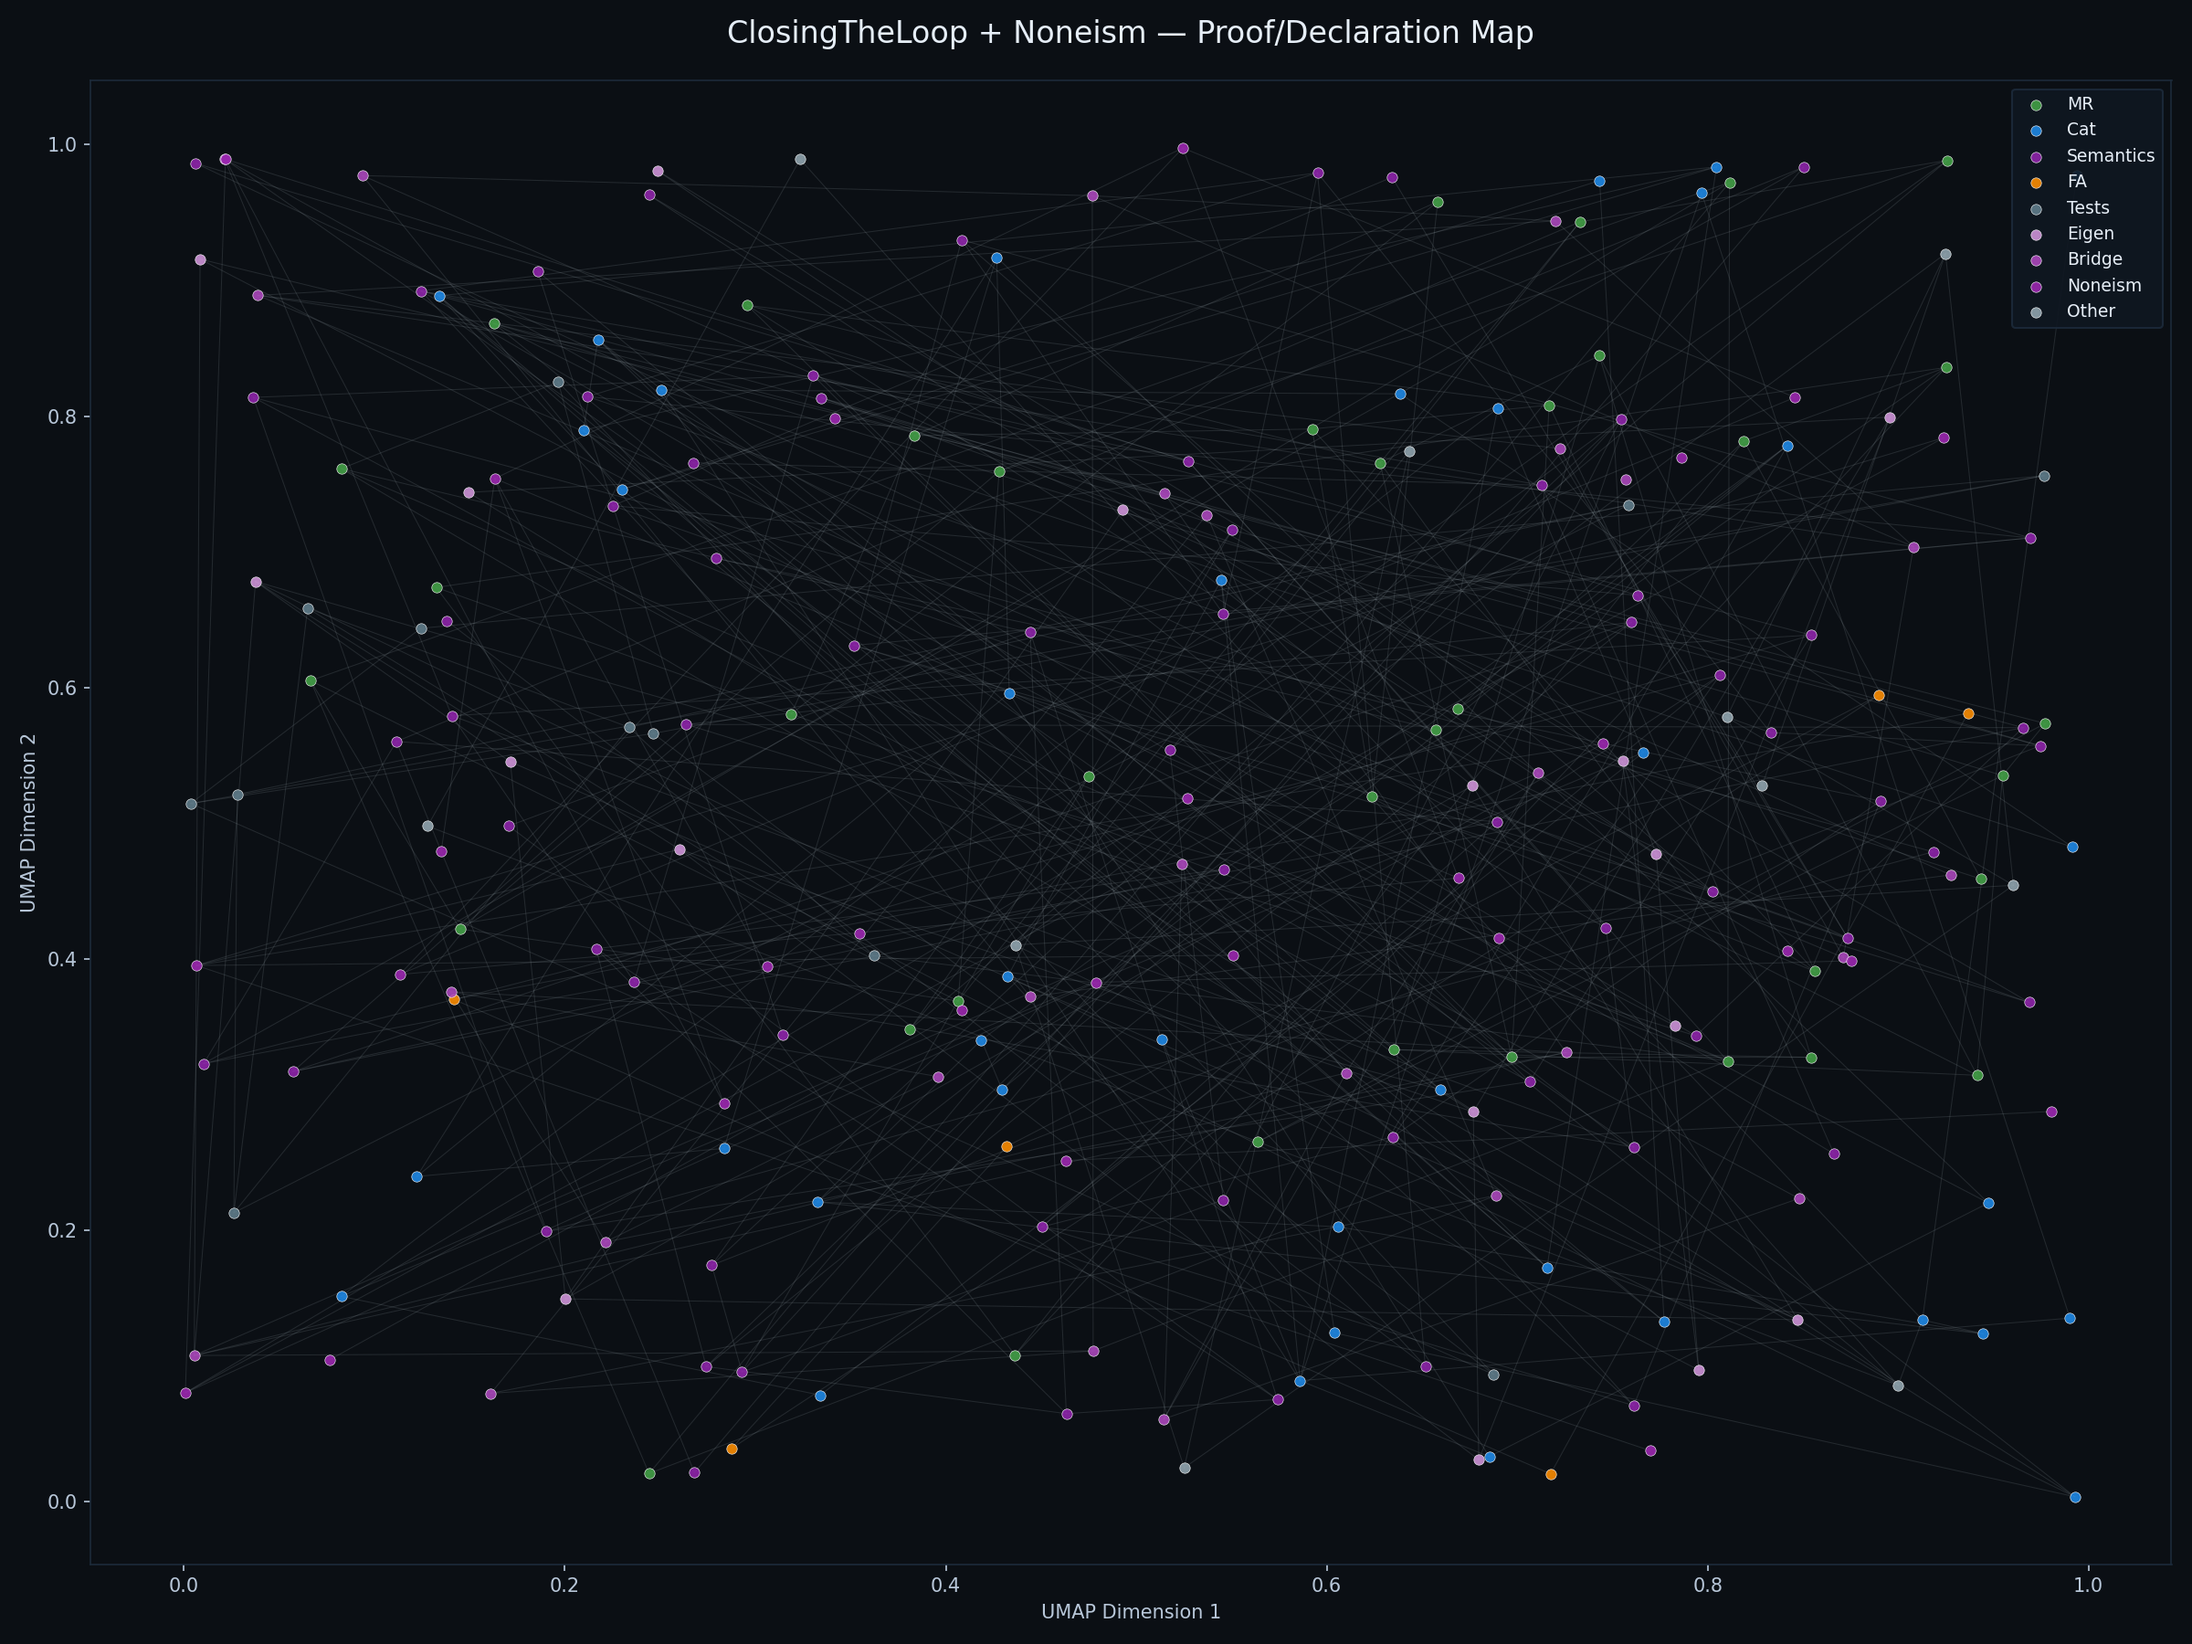
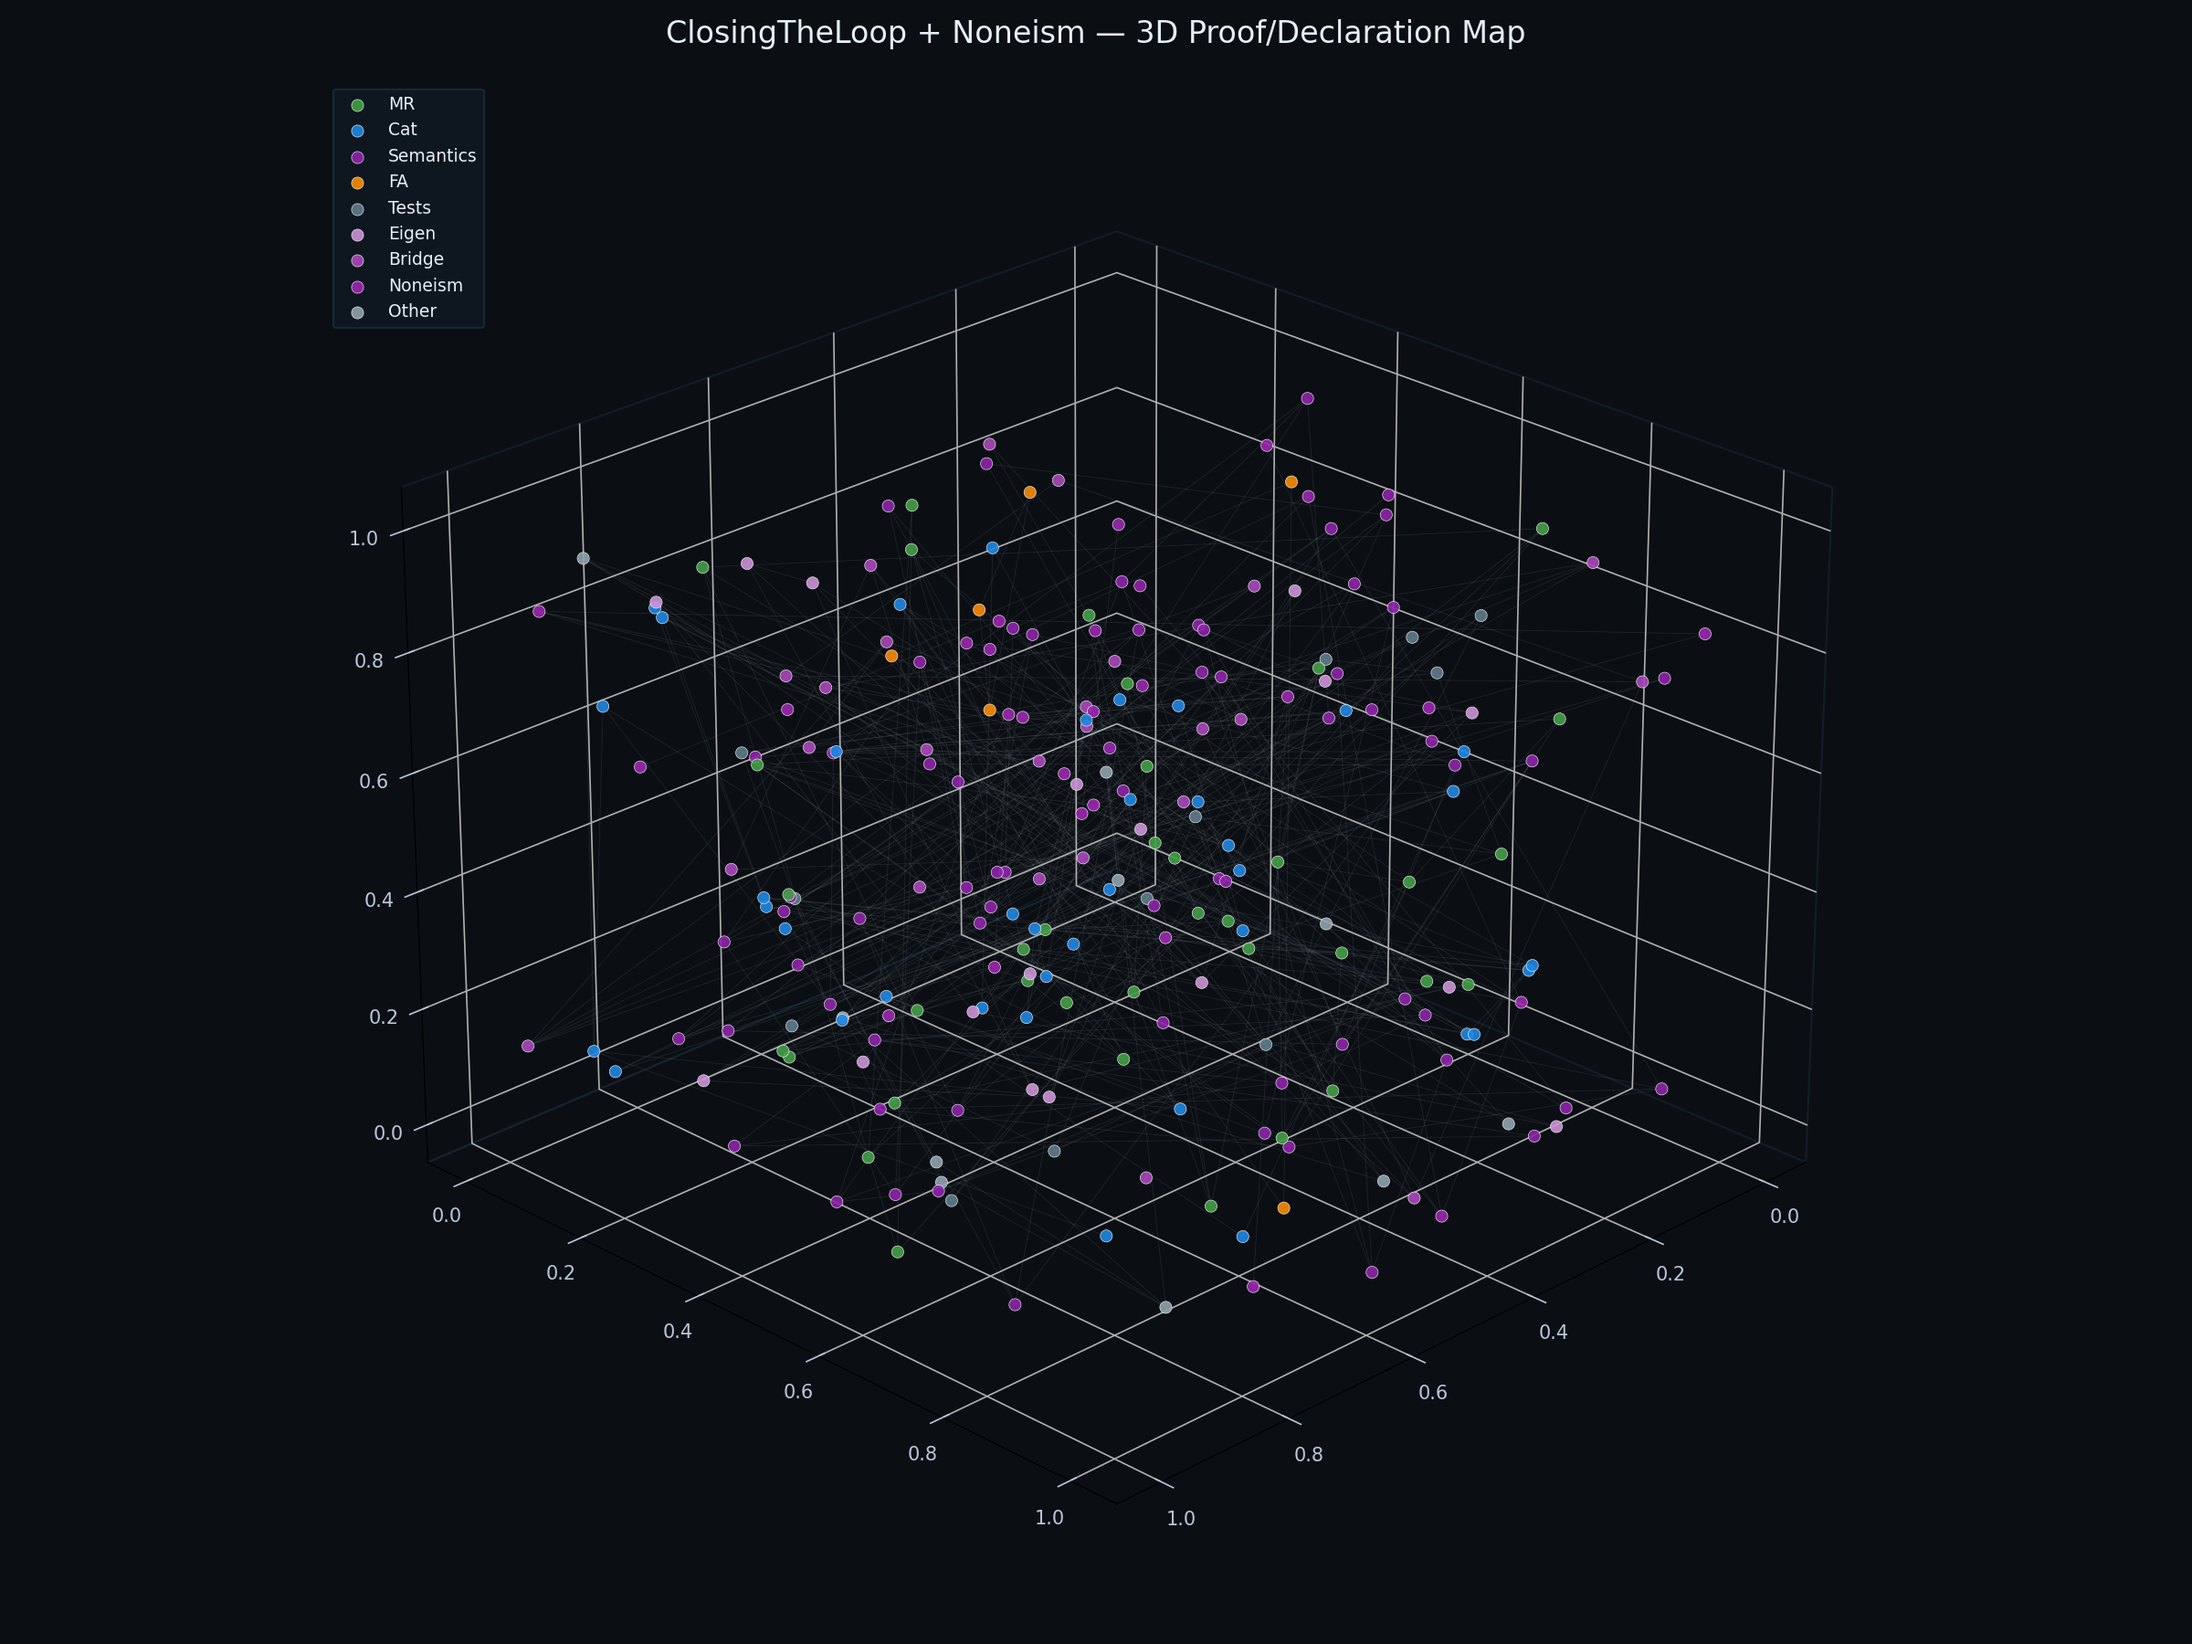
Switch README to 3D proof graph visualization

diff --git a/RESEARCHER_BUNDLE/scripts/regenerate_visuals.py b/RESEARCHER_BUNDLE/scripts/regenerate_visuals.py
@@ -301,13 +301,12 @@ def generate_edges(items: list, module_edges: dict) -> list:
     return edges
 
 def generate_static_png(items: list, edges: list, output_path: Path):
-    """Generate a static PNG visualization of the proof graph."""
+    """Generate a static 3D PNG visualization of the proof graph."""
     try:
         import matplotlib
         matplotlib.use('Agg')  # Non-interactive backend
         import matplotlib.pyplot as plt
-        from matplotlib.patches import Circle
-        import matplotlib.lines as mlines
+        from mpl_toolkits.mplot3d import Axes3D
     except ImportError:
         print("  Warning: matplotlib not available, skipping PNG generation")
         return False
@@ -327,48 +326,57 @@ def generate_static_png(items: list, edges: list, output_path: Path):
         'Other': '#90a4ae'
     }
 
-    fig, ax = plt.subplots(figsize=(16, 12), facecolor='#0b0f14')
-    ax.set_facecolor('#0b0f14')
+    fig = plt.figure(figsize=(16, 12), facecolor='#0b0f14')
+    ax = fig.add_subplot(111, projection='3d', facecolor='#0b0f14')
 
     # Draw edges
     for i, j in edges:
         if i < len(items) and j < len(items):
-            p1 = items[i].get('pos', {})
-            p2 = items[j].get('pos', {})
+            p1 = items[i].get('pos3', {})
+            p2 = items[j].get('pos3', {})
             if p1 and p2:
-                ax.plot([p1['x'], p2['x']], [p1['y'], p2['y']],
-                       color='#b0bec5', alpha=0.15, linewidth=0.5, zorder=1)
+                ax.plot([p1['x'], p2['x']], [p1['y'], p2['y']], [p1['z'], p2['z']],
+                       color='#b0bec5', alpha=0.12, linewidth=0.4)
 
     # Draw nodes by family
     for family in color_map:
-        xs = []
-        ys = []
+        xs, ys, zs = [], [], []
         for item in items:
             if item.get('family', 'Other') == family:
-                pos = item.get('pos', {})
+                pos = item.get('pos3', {})
                 if pos:
                     xs.append(pos['x'])
                     ys.append(pos['y'])
+                    zs.append(pos['z'])
         if xs:
-            ax.scatter(xs, ys, c=color_map[family], s=30, alpha=0.9,
-                      label=family, zorder=2, edgecolors='white', linewidths=0.3)
+            ax.scatter(xs, ys, zs, c=color_map[family], s=40, alpha=0.9,
+                      label=family, edgecolors='white', linewidths=0.3, depthshade=True)
 
-    # Title and labels
-    ax.set_title('ClosingTheLoop + Noneism — Proof/Declaration Map',
+    # Title
+    ax.set_title('ClosingTheLoop + Noneism — 3D Proof/Declaration Map',
                 fontsize=16, color='#e6eef7', pad=20)
-    ax.set_xlabel('UMAP Dimension 1', fontsize=10, color='#b8c7d9')
-    ax.set_ylabel('UMAP Dimension 2', fontsize=10, color='#b8c7d9')
+
+    # Set viewing angle for best visual
+    ax.view_init(elev=25, azim=45)
+
+    # Style the 3D axes
+    ax.set_facecolor('#0b0f14')
+    ax.xaxis.pane.fill = False
+    ax.yaxis.pane.fill = False
+    ax.zaxis.pane.fill = False
+    ax.xaxis.pane.set_edgecolor('#1c2a3a')
+    ax.yaxis.pane.set_edgecolor('#1c2a3a')
+    ax.zaxis.pane.set_edgecolor('#1c2a3a')
+    ax.tick_params(colors='#b8c7d9')
+    ax.xaxis.label.set_color('#b8c7d9')
+    ax.yaxis.label.set_color('#b8c7d9')
+    ax.zaxis.label.set_color('#b8c7d9')
 
     # Legend
-    legend = ax.legend(loc='upper right', framealpha=0.9, facecolor='#0f1721',
+    legend = ax.legend(loc='upper left', framealpha=0.9, facecolor='#0f1721',
                        edgecolor='#1c2a3a', fontsize=9)
     for text in legend.get_texts():
         text.set_color('#e6eef7')
-
-    # Remove axes spines
-    for spine in ax.spines.values():
-        spine.set_color('#1c2a3a')
-    ax.tick_params(colors='#b8c7d9')
 
     # Tight layout
     plt.tight_layout()

diff --git a/README.md b/README.md
@@ -95,9 +95,9 @@ Docs:
 
 We provide interactive visualizations showing the structure and dependencies of all proofs:
 
-![Proof Dependency Graph](images/proof_graph_visualization.png)
+![Proof Dependency Graph (3D)](images/proof_graph_visualization.png)
 
-*The proof graph shows how theorems depend on each other. Each node is a declaration (definition, lemma, or theorem). Edges show logical dependencies—which results are used to prove which others. Colors indicate module families: green (MR), blue (Cat), purple (Semantics), orange (FA), and violet shades (Noneism extension). Clusters reveal the modular structure of the formalization.*
+*3D proof graph showing how theorems depend on each other. Each node is a declaration (definition, lemma, or theorem). Edges show logical dependencies. Colors indicate module families: green (MR), blue (Cat), purple (Semantics), orange (FA), and violet shades (Noneism extension). The spatial clustering reveals the modular structure of the formalization. See interactive viewers below for full exploration.*
 
 **Interactive Viewers:**
 - [**2D Viewer**](RESEARCHER_BUNDLE/artifacts/visuals/closing_the_loop_2d.html) — Pan/zoom, hover for names, click for details
